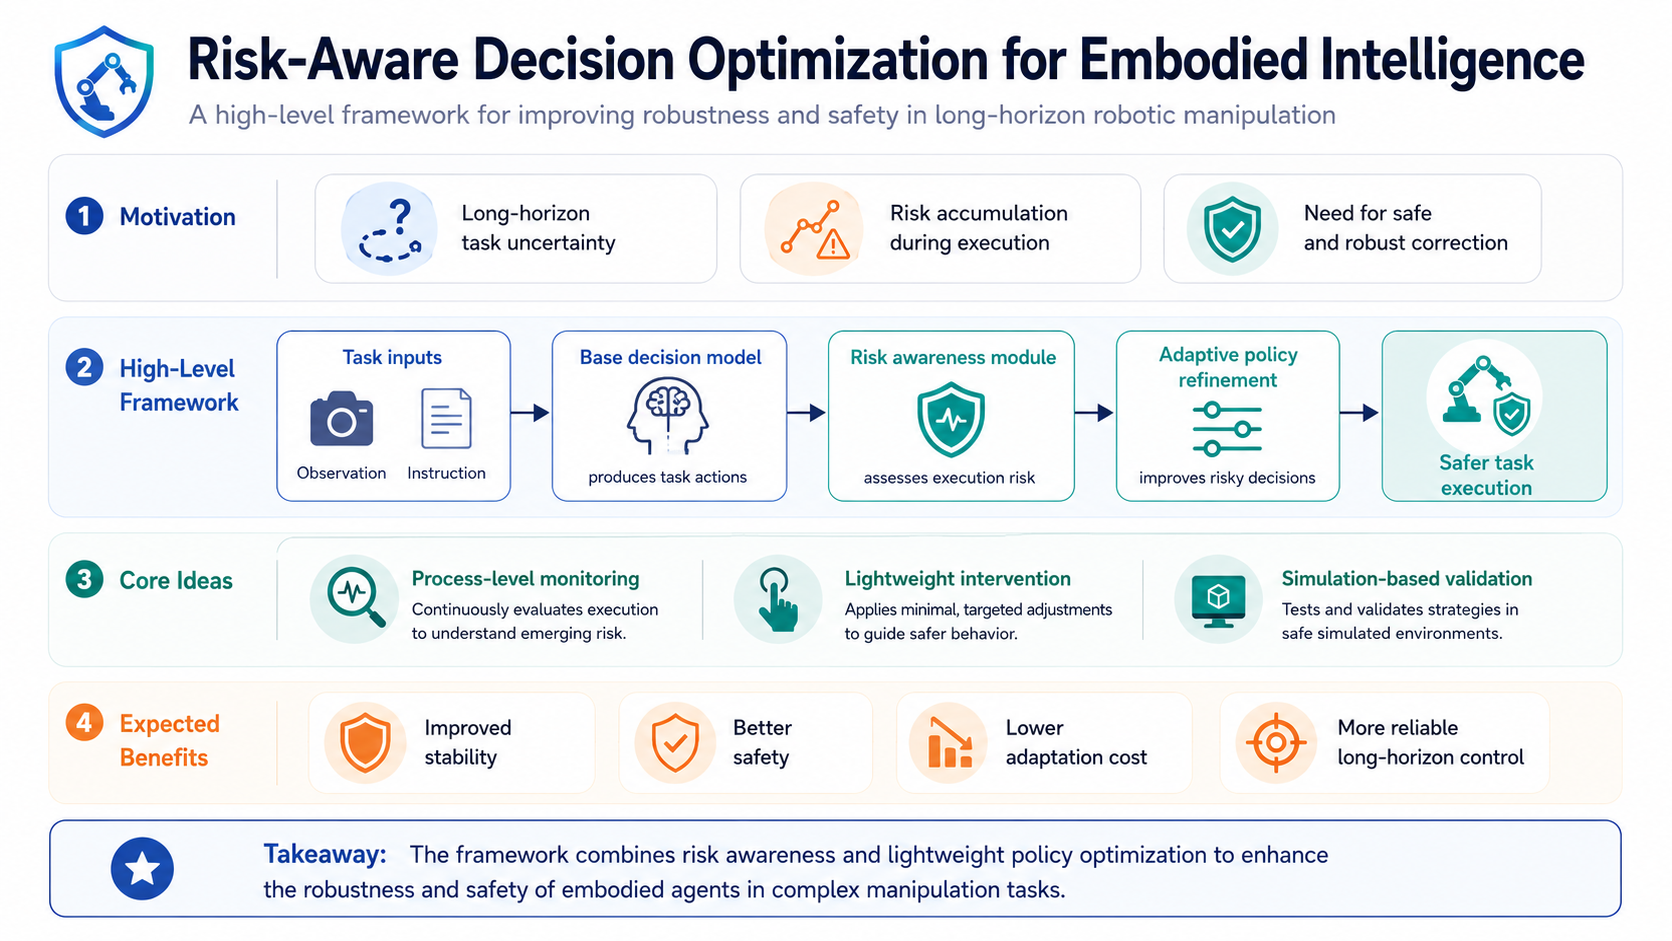
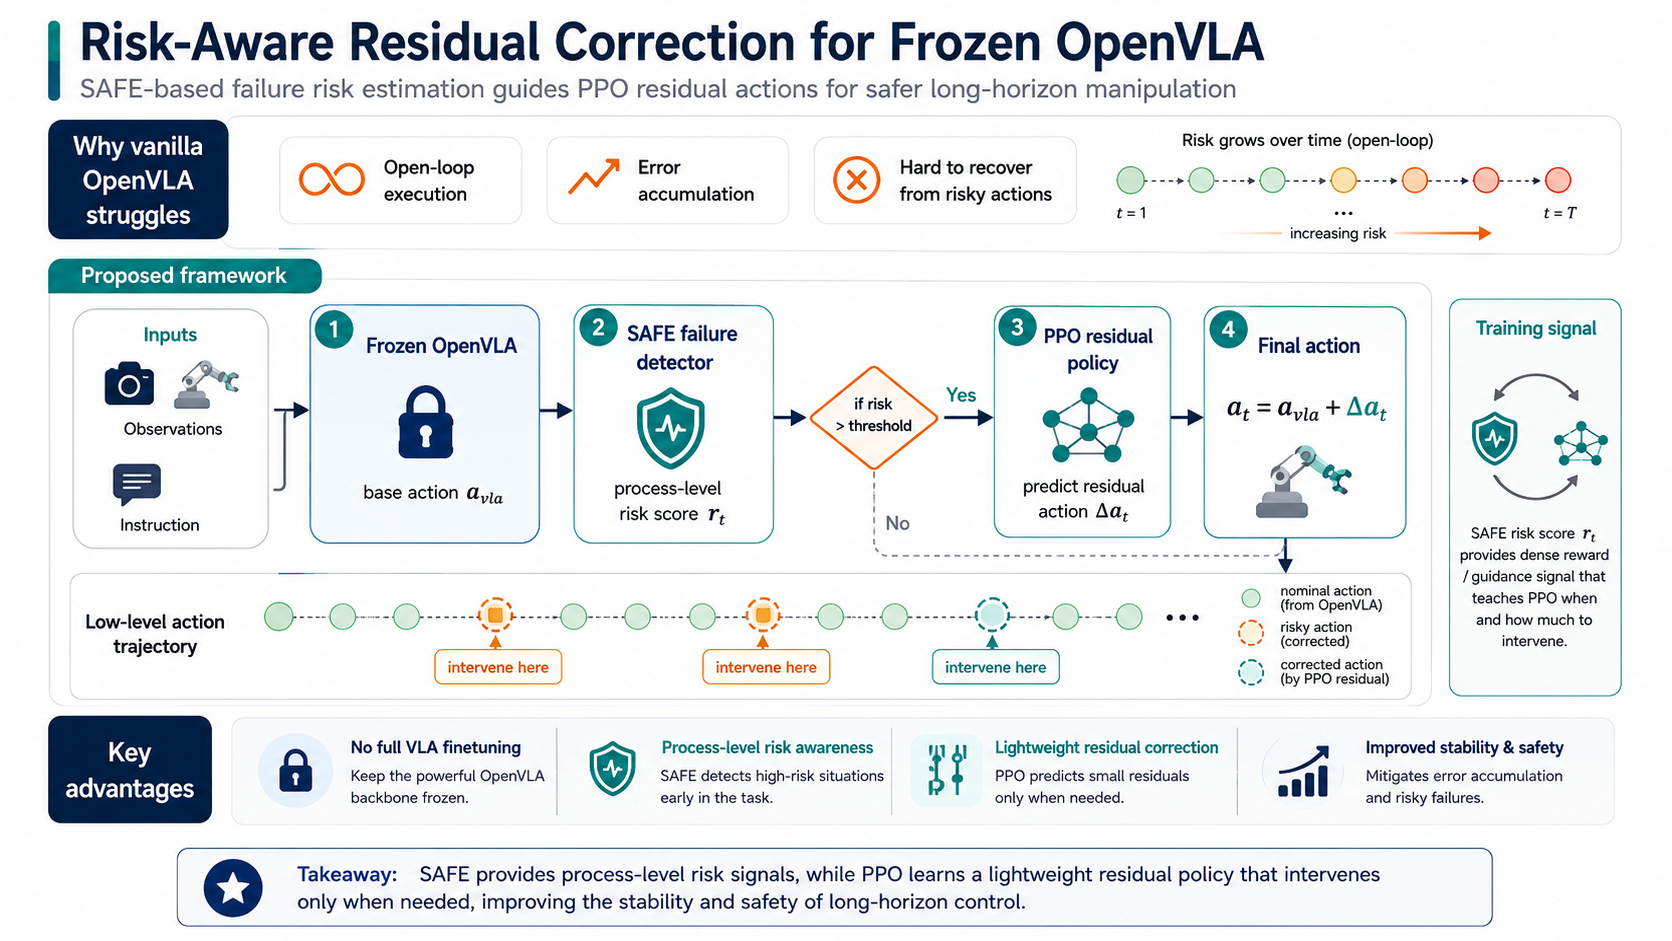
Show publication placeholders and update embodied AI image

Changed region(s): [[0.0311, 0.0, 0.9641, 0.9862]]

diff --git a/assets/css/main.scss b/assets/css/main.scss
@@ -705,6 +705,17 @@ h1:before, .anchor:before {
     background: #fff;
 }
 
+.research-card__image--pending {
+    display: grid;
+    place-items: center;
+    padding: 1.25rem;
+    border-bottom: 1px solid #e1e7f0;
+    color: #49617f;
+    font-size: clamp(1.1rem, 2vw, 1.45rem);
+    font-weight: 800;
+    text-align: center;
+}
+
 .research-card__image--diagram img {
     box-sizing: border-box;
     padding: 0.5rem;

diff --git a/_pages/about.md b/_pages/about.md
@@ -105,13 +105,8 @@ body_class: home-page
   </article>
 
   <article class="research-card research-card--purple">
-    <div class="research-card__image research-card__image--abstract research-visual research-visual--notes" data-visual-label="" data-i18n-attr="data-visual-label:research.notesVisual">
-      <div class="research-abstract-card research-abstract-card--network" aria-hidden="true">
-        <span class="research-abstract-card__icon"><i class="fas fa-broadcast-tower"></i></span>
-        <span class="research-abstract-card__node research-abstract-card__node--one"></span>
-        <span class="research-abstract-card__node research-abstract-card__node--two"></span>
-        <span class="research-abstract-card__node research-abstract-card__node--three"></span>
-      </div>
+    <div class="research-card__image research-card__image--pending">
+      <span data-i18n="research.publicationPending">Publication in progress</span>
     </div>
     <div class="research-card__body">
       <span class="tag-row"><span data-i18n="research.notesTag1">Wireless</span><span data-i18n="research.notesTag2">Optimization</span><span data-i18n="research.notesTag3">AI</span></span>
@@ -122,13 +117,8 @@ body_class: home-page
   </article>
 
   <article class="research-card research-card--green">
-    <div class="research-card__image research-card__image--abstract research-visual research-visual--systems" data-visual-label="" data-i18n-attr="data-visual-label:research.extraOneVisual">
-      <div class="research-abstract-card" aria-hidden="true">
-        <span class="research-abstract-card__icon"><i class="fas fa-network-wired"></i></span>
-        <span class="research-abstract-card__orbit research-abstract-card__orbit--one"></span>
-        <span class="research-abstract-card__orbit research-abstract-card__orbit--two"></span>
-        <span class="research-abstract-card__line"></span>
-      </div>
+    <div class="research-card__image research-card__image--pending">
+      <span data-i18n="research.publicationPending">Publication in progress</span>
     </div>
     <div class="research-card__body">
       <span class="tag-row"><span data-i18n="research.extraOneTag1">Tag 1</span><span data-i18n="research.extraOneTag2">Tag 2</span><span data-i18n="research.extraOneTag3">Tag 3</span></span>
